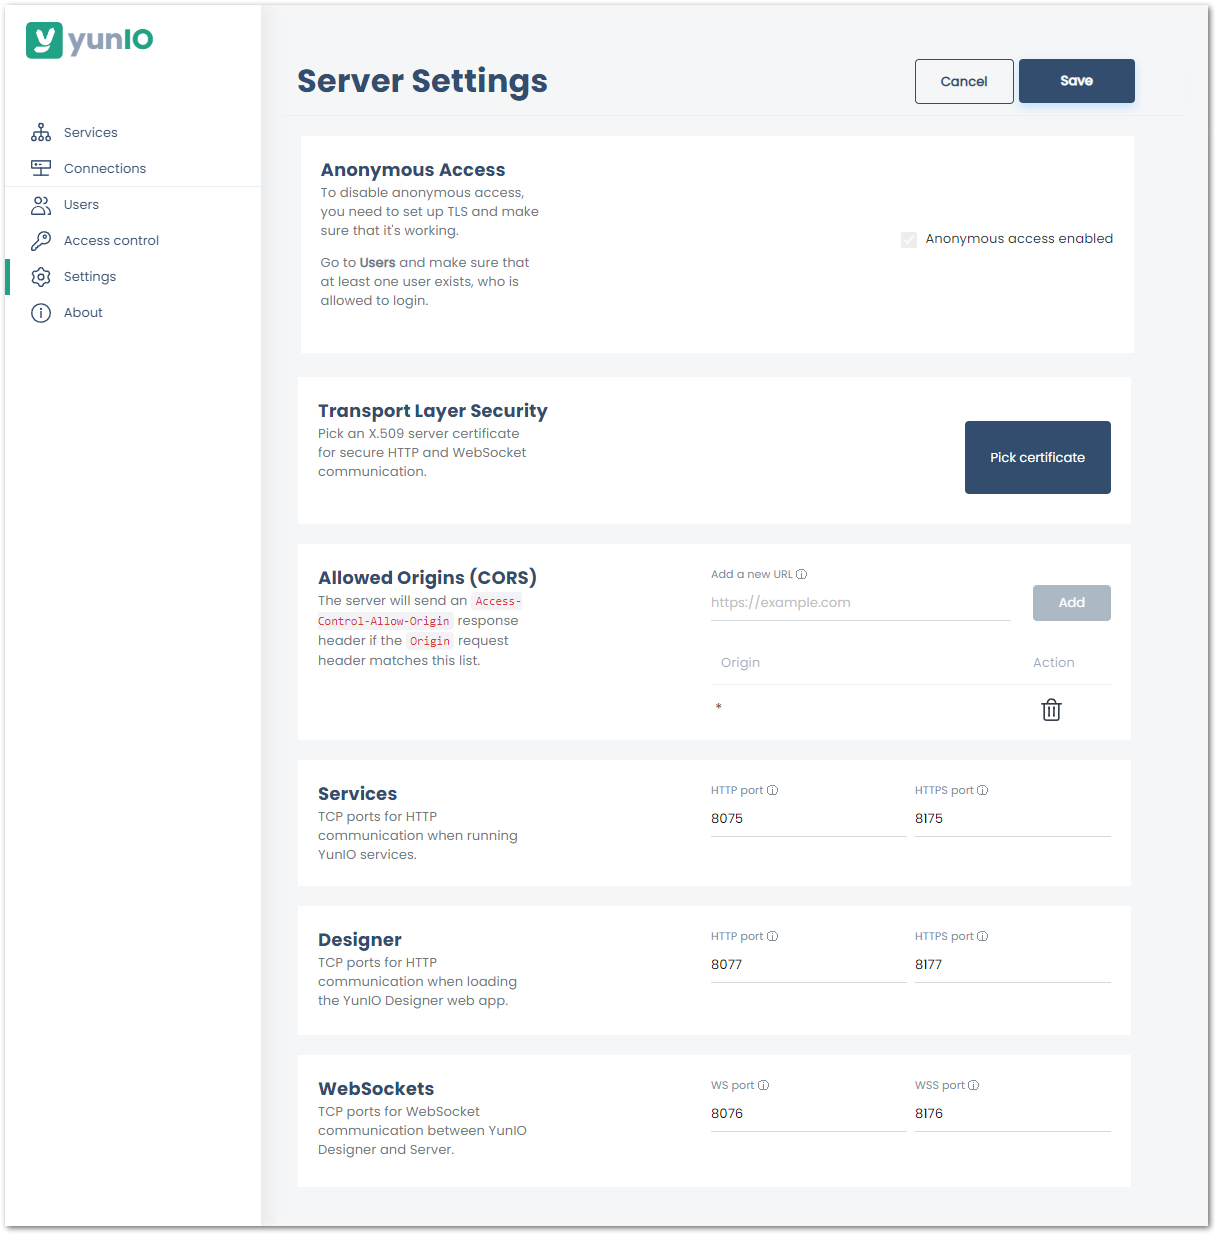
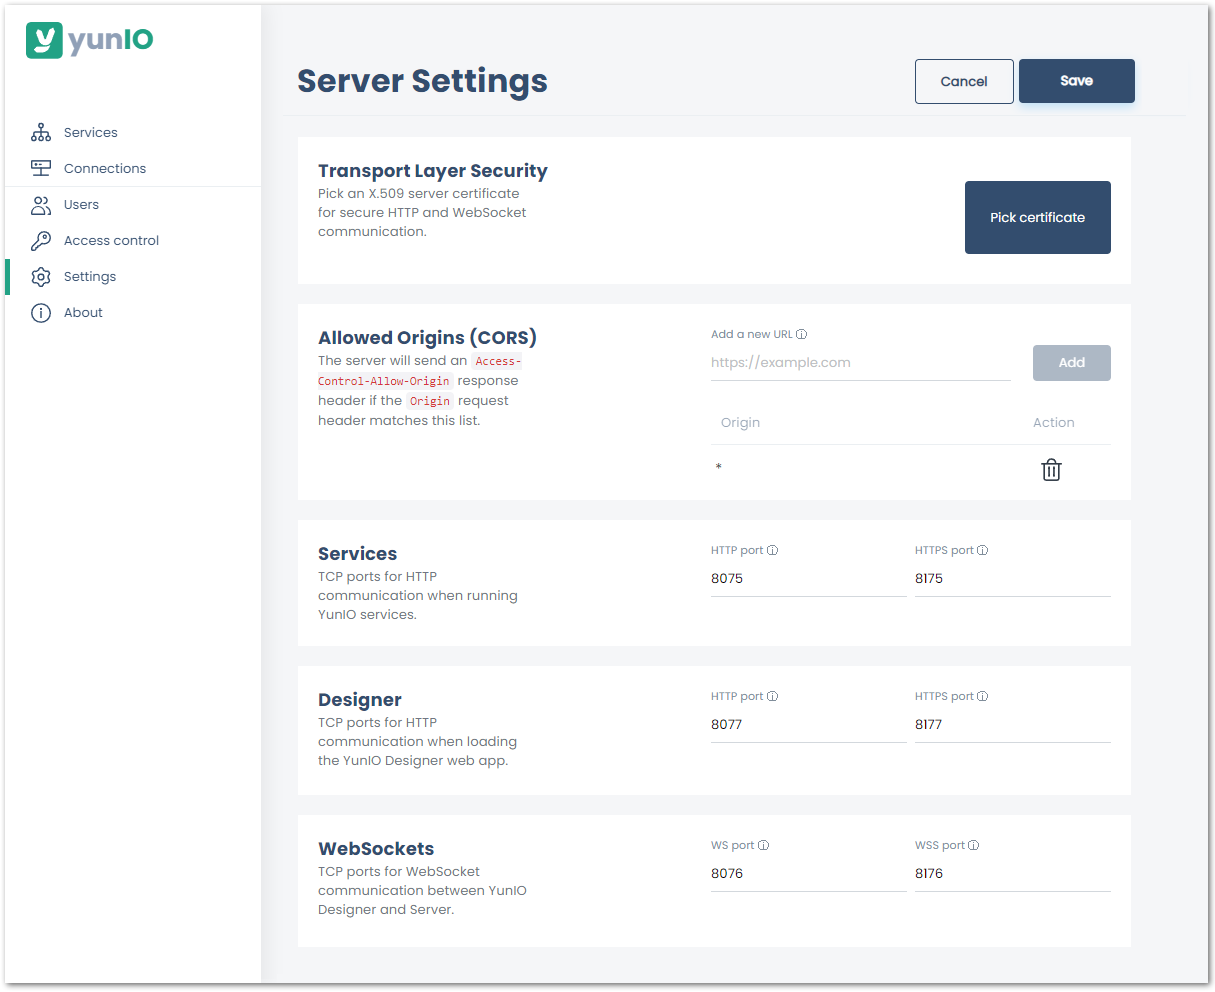
de, en

diff --git a/content/_en/yunio/access-control.md b/content/_en/yunio/access-control.md
@@ -12,19 +12,31 @@ lang: en_GB
 progressstate: 5
 ---
 
-![Access_Control](/img/contents/yunio/access-control.png){:class="img-responsive"}
+The yunIO access control allows you to create access restrictions for users.
+
+![Access_Control](/img/content/yunio/access-control.png){:class="img-responsive"}
 
 ### Server Access
 
+Activate or deactivate access control for the Designer and the server.<br>
+This includes access right for executing services.
+
+#### Anonymous
+If **Anonymous Access** is active, anyone can access the Designer and execute services. 
+This is the default setting.
+
+#### Authenticated
+This option is only available if at least one user is defined and [Transport Layer Security](#transport-layer-security) is enabled.<br>
+If **Authenticated** is active, only defined users with a designated restriction level have access to the Designer and the server.
+
 ### Privileges
 
-Assign restriction levels to users.
+Assign restriction levels for Designer and server access to users.
 
 All users defined in [User management](./users) are listed in **Privileges**.
-Select an access restriction level from the dropdown list next to the user name.
-
+Select an access restriction level from the dropdown list next to the user name to assign a restriction level.
 The following restriction levels are available:
-- **Server Admin**: allows users to create, edit and execute services, connections, users settings and server settings. 
+- **Server Admin**: allows users access to all functions and settings. 
 - **Create / Modify**: allows users to create, edit and execute services and connections.
-- **Read / Execute**: allows users to open settings of connections and services and execute services.
-- **No access**: denies users access to the Designer.
+- **Read / Execute**: allows users to open the Designer to download and execute services.
+- **No access**: denies users access to the Designer. Execution of services is not authorized.

diff --git a/content/_de/yunio/Zugriffssteuerung.md b/content/_de/yunio/Zugriffssteuerung.md
@@ -12,8 +12,31 @@ lang: de_DE
 progressstate: 5
 ---
 
-![Access_Control](/img/contents/yunio/access-control.png){:class="img-responsive"}
+Mit der yunIO Zugriffssteuerung können Sie den Zugriff auf den yunIO Designer und die yunIO Services auf designierte Benutzer beschränken.
+
+![Access_Control](/img/content/yunio/access-control.png){:class="img-responsive"}
 
 ### Server Access
 
+Aktivieren oder deaktivieren Sie die Zugriffsbeschränkungen für den Designer und den Server.<br>
+Die Zugriffsrechte gelten auch für den Aufruf von Services. 
+
+#### Anonymous
+Wenn **Anonymous Access** aktiv ist, gibt es keine Zugangsbeschränkungen für den Designer und den Server.
+**Anonymous** ist die Default-Einstellung.
+
+#### Authenticated
+Diese Option ist nur verfügbar, wenn mindestends ein Benutzer angelegt und [Transport Layer Security](#transport-layer-security) aktiv ist. <br>
+Wenn diese Option deaktiviert ist, haben nur angelegte Benutzer mit entsprechender Beschränkungsstufe Zugriff auf den Designer und den Server.
+
 ### Privileges
+
+Weisen Sie Benutzern Beschränkungsstufen für den Zugriff auf Designer und Server zu.
+
+Alle Benutzer, die in der [Benutzerverwaltung](./benutzer) angelegt sind, werden unter **Privileges** aufgelistet.
+Wählen Sie eine Beschränkungsstufe aus der Dropdown-Liste neben dem Benutzernamen aus, um die Beschränkungsstufe dem Benutzer zuzuweisen.
+Die folgenden Beschränkungsstufen sind verfügbar:
+- **Server Admin**: erlaubt Benutzern Zugriff auf alle Funktionen und Einstellungen. 
+- **Create / Modify**: erlaubt Benutzern Services und SAP-Verbindungen zu erstellen, zu bearbeiten und auszuführen.
+- **Read / Execute**: erlaubt Benutzern den Designer zu öffnen, um Services herunterzuladen und auszuführen.
+- **No access**: verweigert Benutzern den Zugriff auf den Designer. Das Ausführen von Services ist nicht authorisiert.

diff --git a/content/_en/yunio/server-settings.md b/content/_en/yunio/server-settings.md
@@ -21,10 +21,6 @@ To save any changes made in the **Settings** menu, click **[Save]**.
 
 ![Server-Settings](/img/content/yunio/Server-settings.png){:class="img-responsive" }
 
-### Anonymous Access
-**Anonymous Access** is only available if users are defined, see [Transport Layer Security](#transport-layer-security).<br>
-If **Anonymous Access** is active, anyone can access the Designer. If this option is deactivated, only defined users have access.
-
 ### Transport Layer Security
 
 Transport Layer Security (TLS) protocol allows the user to communicate with the respective service in a secure way by encrypting the communication with that service (HTTPS).

diff --git a/content/_de/yunio/server-settings.md b/content/_de/yunio/server-settings.md
@@ -21,10 +21,6 @@ Speichern Sie Änderungen der Einstellungen mit **[Save]**.
 
 ![Server-Settings](/img/content/yunio/Server-settings.png){:class="img-responsive" }
 
-### Anonymous Access
-**Anonymous Access** ist nur verfügbar, wenn TLS aktiv ist, siehe [Transport Layer Security](#transport-layer-security). <br>
-Wenn **Anonymous Access** aktiv ist, gibt es keine Zugangsbeschränkungen für den Designer.
-Wenn diese Option deaktiviert ist, gibt haben nur angelegte Benutzer Zugriff auf den Designer.
 
 ### Transport Layer Security
 

diff --git a/content/_en/yunio/users.md b/content/_en/yunio/users.md
@@ -12,7 +12,7 @@ lang: en_GB
 progressstate: 5
 ---
 
-With the user management you can create custom users with credentials to restrict access to the yunIO Designer and to yunIO services.
+The yunIO user management allows you to create custom users with credentials to restrict access to the yunIO Designer and to yunIO services.
 
 ### Creating Users
 
